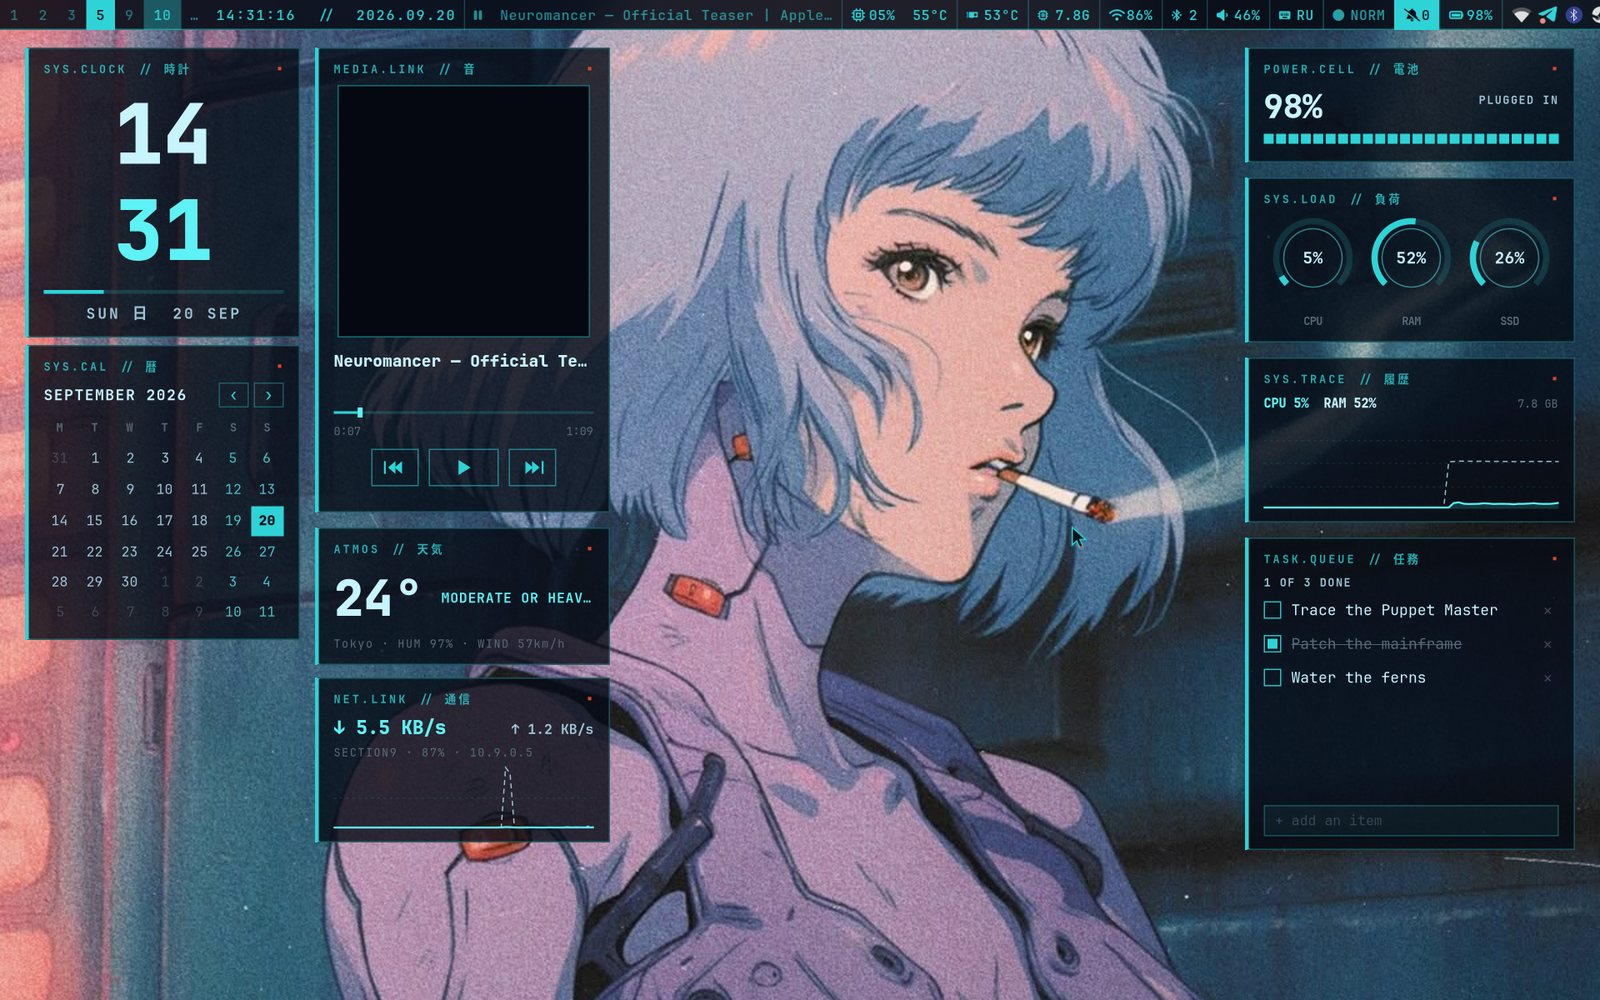
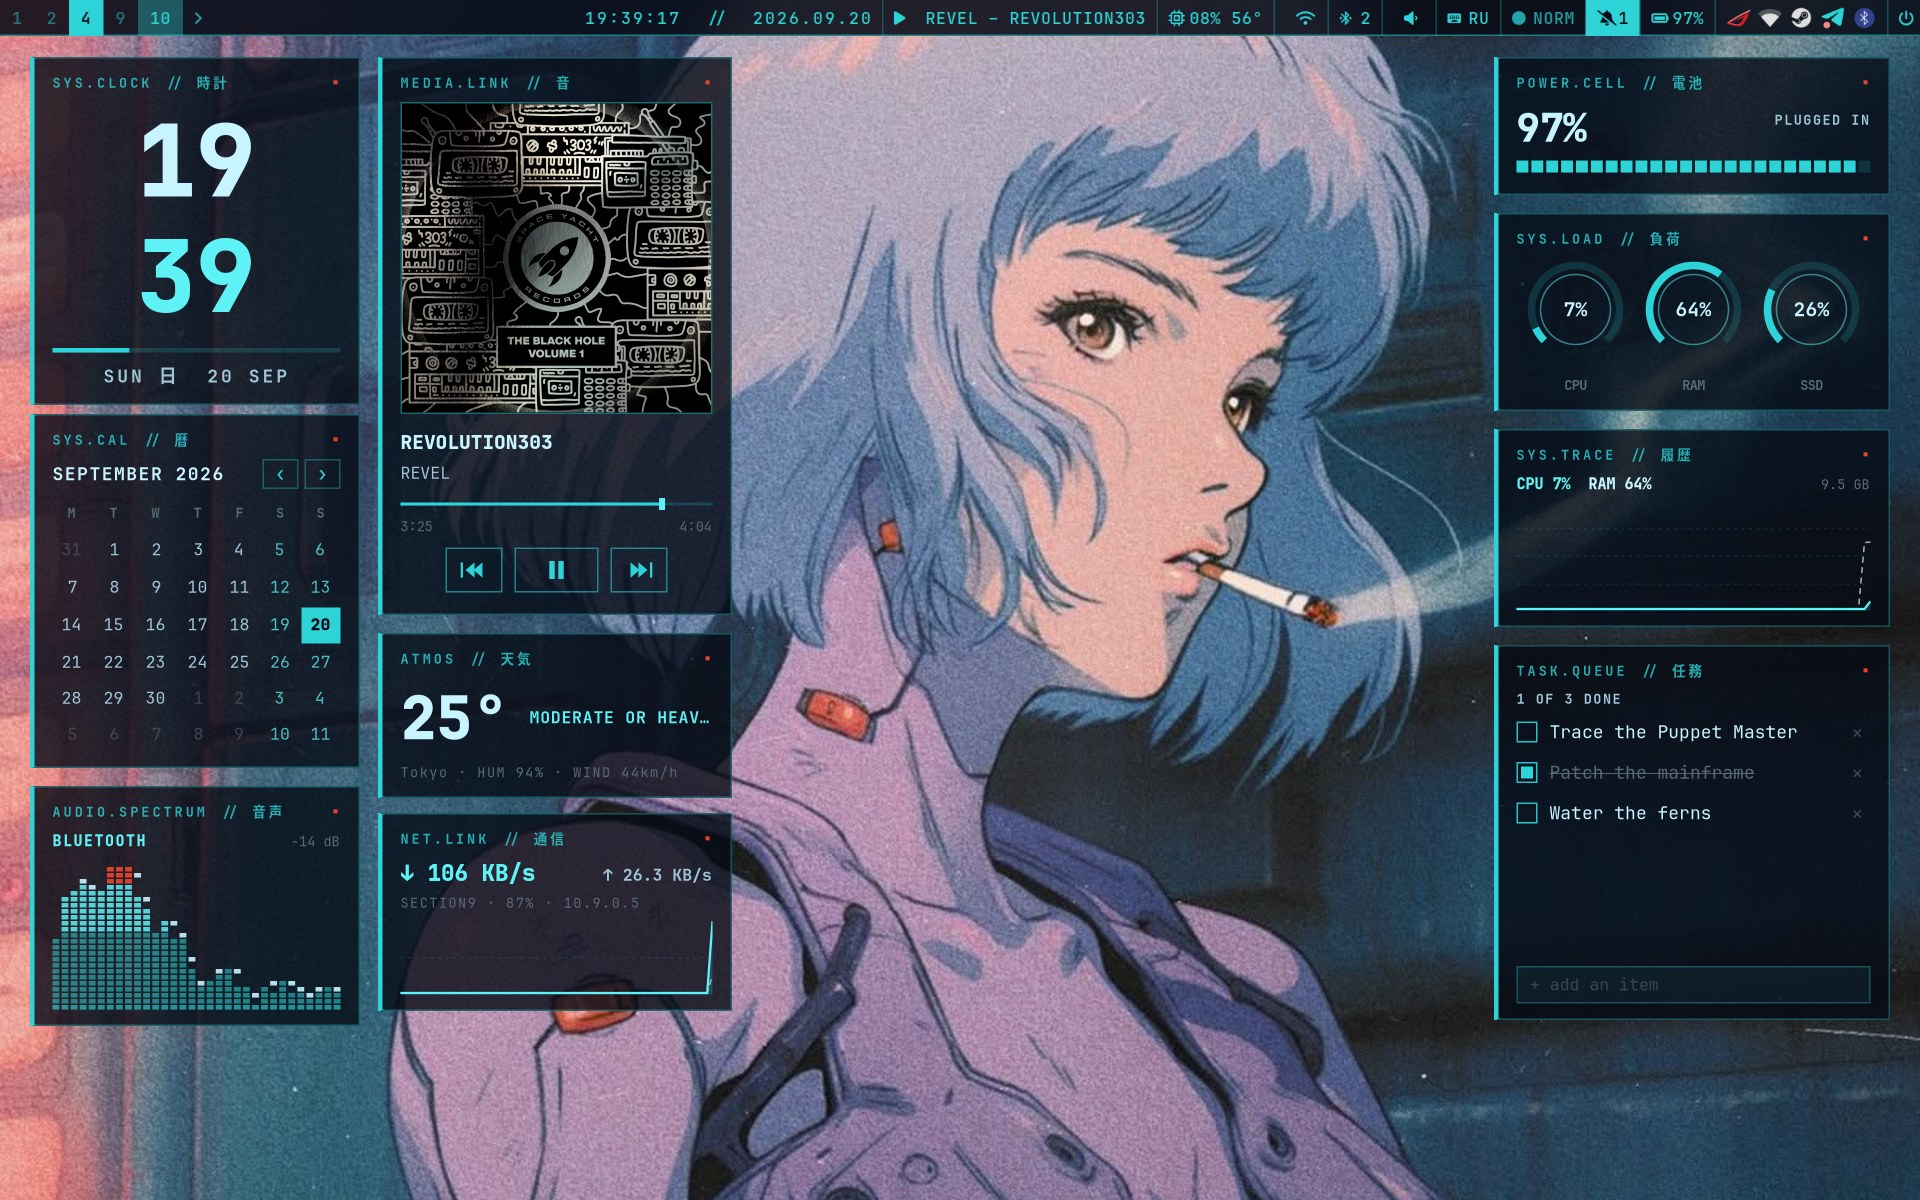
Retake the screenshots (new bar, widgets, popups, OSD, braille Lain), tools/screenshots.sh, gallery rewritten

diff --git a/README.md b/README.md
@@ -26,16 +26,22 @@ phosphor palette, square corners, thin frames, kanji tags. One installer, one un
 
 ## Gallery
 
+![Desktop](docs/img/desktop.jpg)
+**Desktop:** waybar, widgets (clock, calendar, player, weather, network, battery, load, audio spectrum, to-do). Demo data, no personal info.
+
 | | |
 |---|---|
-| ![Desktop](docs/img/desktop.jpg) **Desktop:** waybar, widgets (clock, calendar, player, weather, network, battery, load, to-do) | ![Launcher](docs/img/launcher.jpg) **rofi launcher** with a search prompt |
-| ![Notification menu](docs/img/notification-menu.jpg) **Notification actions** (click a popup) | ![wlogout](docs/img/wlogout.jpg) **wlogout** power menu |
-| ![Terminal](docs/img/terminal.jpg) **Terminal:** kitty banner + fastfetch | ![Neovim](docs/img/nvim.jpg) **Neovim** (LazyVim) colourscheme, lualine, bufferline |
-| ![Neovim dashboard](docs/img/nvim-dashboard.jpg) **Neovim dashboard** | ![SDDM](docs/img/sddm.jpg) **SDDM** login (Qt6) |
+| ![Control panel](docs/img/control-panel.jpg) **Control panel** (the power button, Super+Shift+C): toggles, sliders, power profile, charge limit, tools, session, health chip | ![Player](docs/img/player.jpg) **Player popup** (Super+Shift+M) |
+| ![Mixer](docs/img/mixer.jpg) **Sound mixer** (Super+Alt+V): master, outputs, one slider per app | ![Notifications](docs/img/notifications.jpg) **Notification centre** (Super+Shift+N) |
+| ![Settings](docs/img/settings-menu.jpg) **All settings** (Super+I) | ![OSD](docs/img/osd.jpg) **On-screen display** for volume, brightness, keyboard backlight, touchpad |
+| ![Terminal](docs/img/terminal.jpg) **Terminal:** kitty banner + fastfetch | ![Neovim dashboard](docs/img/nvim-dashboard.jpg) **Neovim dashboard** |
+| ![Neovim](docs/img/nvim.jpg) **Neovim** (LazyVim) colourscheme, lualine, bufferline | ![Launcher](docs/img/launcher.jpg) **rofi launcher** with a search prompt |
+| ![wlogout](docs/img/wlogout.jpg) **wlogout** power menu | ![SDDM](docs/img/sddm.jpg) **SDDM** login (Qt6) |
 | ![Dolphin](docs/img/dolphin.jpg) **Dolphin** (Kvantum) with `GitS-Icons` cyan folders | ![Logseq](docs/img/logseq.jpg) **Logseq** |
 
-The lock screen (hyprlock), Plymouth and GRUB themes are not pictured: they cannot be screenshotted safely on a live session.
-The widgets can run in a screenshot-safe demo mode: `GITS_WIDGETS_DEMO=1 GITS_WEATHER_LOCATION=Tokyo ~/.config/gits-widgets/run.sh restart`.
+The popups open with a scan-line "power-on" effect (a bright line uncovers the card from the top). The lock screen (hyprlock), Plymouth and GRUB themes are not
+pictured: they cannot be screenshotted safely on a live session. `tools/screenshots.sh` regenerates the pictures above on an empty workspace with the
+widgets and popups in their demo modes.
 
 ## Requirements
 
@@ -114,6 +120,7 @@ docs/PITFALLS.md            what broke and why
 
 ```bash
 tools/export.py --check     # what differs between $HOME and the repo
+tools/screenshots.sh        # retake docs/img on an empty workspace (demo data, ~1 minute, do not touch the mouse)
 tools/export.py             # copy it over (explicit manifest, no images except assets/, no backups/caches)
 ```
 

diff --git a/README.ru.md b/README.ru.md
@@ -17,13 +17,16 @@ Logseq, Qt/Dolphin (Kvantum), сборщик темы Telegram, а также `g
 
 | | |
 |---|---|
-| ![Лаунчер](docs/img/launcher.jpg) rofi-лаунчер | ![Меню уведомлений](docs/img/notification-menu.jpg) меню действий уведомления |
+| ![Панель управления](docs/img/control-panel.jpg) панель управления (кнопка питания, Super+Shift+C) | ![Плеер](docs/img/player.jpg) плеер (Super+Shift+M) |
+| ![Микшер](docs/img/mixer.jpg) микшер (Super+Alt+V) | ![Уведомления](docs/img/notifications.jpg) центр уведомлений (Super+Shift+N) |
+| ![Настройки](docs/img/settings-menu.jpg) все настройки (Super+I) | ![OSD](docs/img/osd.jpg) OSD громкости, яркости, подсветки, тачпада |
+| ![Терминал](docs/img/terminal.jpg) баннер терминала | ![Заставка Neovim](docs/img/nvim-dashboard.jpg) заставка Neovim |
+| ![Neovim](docs/img/nvim.jpg) Neovim | ![Лаунчер](docs/img/launcher.jpg) rofi-лаунчер |
 | ![wlogout](docs/img/wlogout.jpg) меню выключения | ![SDDM](docs/img/sddm.jpg) экран входа SDDM |
-| ![Терминал](docs/img/terminal.jpg) баннер терминала | ![Neovim](docs/img/nvim.jpg) Neovim |
 | ![Dolphin](docs/img/dolphin.jpg) Dolphin с циановыми папками | ![Logseq](docs/img/logseq.jpg) Logseq |
 
-Экран блокировки, Plymouth и GRUB не показаны: их нельзя безопасно снять на живой сессии. Виджеты умеют «демо-режим» для скриншотов без
-личных данных: `GITS_WIDGETS_DEMO=1 GITS_WEATHER_LOCATION=Tokyo ~/.config/gits-widgets/run.sh restart`.
+Окна открываются эффектом «сканирования»: яркая линия проявляет карточку сверху вниз. Экран блокировки, Plymouth и GRUB не показаны: их нельзя безопасно
+снять на живой сессии. `tools/screenshots.sh` переснимает картинки выше на пустом воркспейсе с демо-данными.
 
 ## Установка
 
